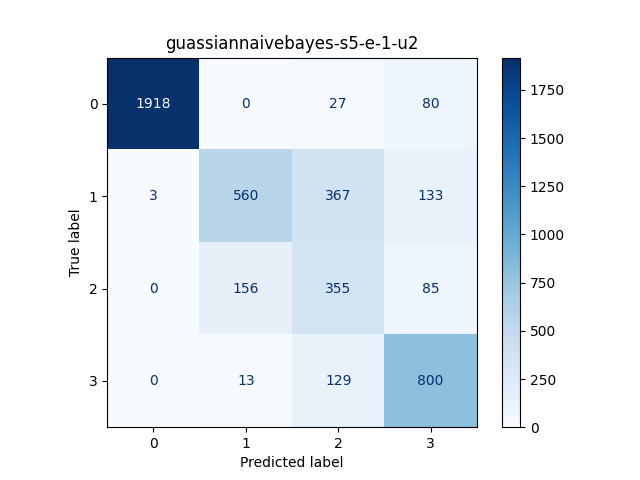
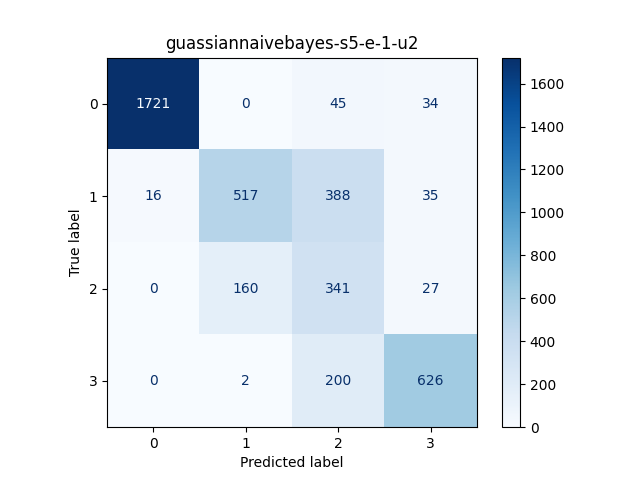
Checkpoint

diff --git a/final_project/exercise-classification.py b/final_project/exercise-classification.py
@@ -20,7 +20,7 @@ import matplotlib.pyplot as plt
 import warnings
 warnings.simplefilter(action='ignore', category=FutureWarning)
 
-subject = 5
+subject = 1
 exercise = 1
 unit = 2
 
